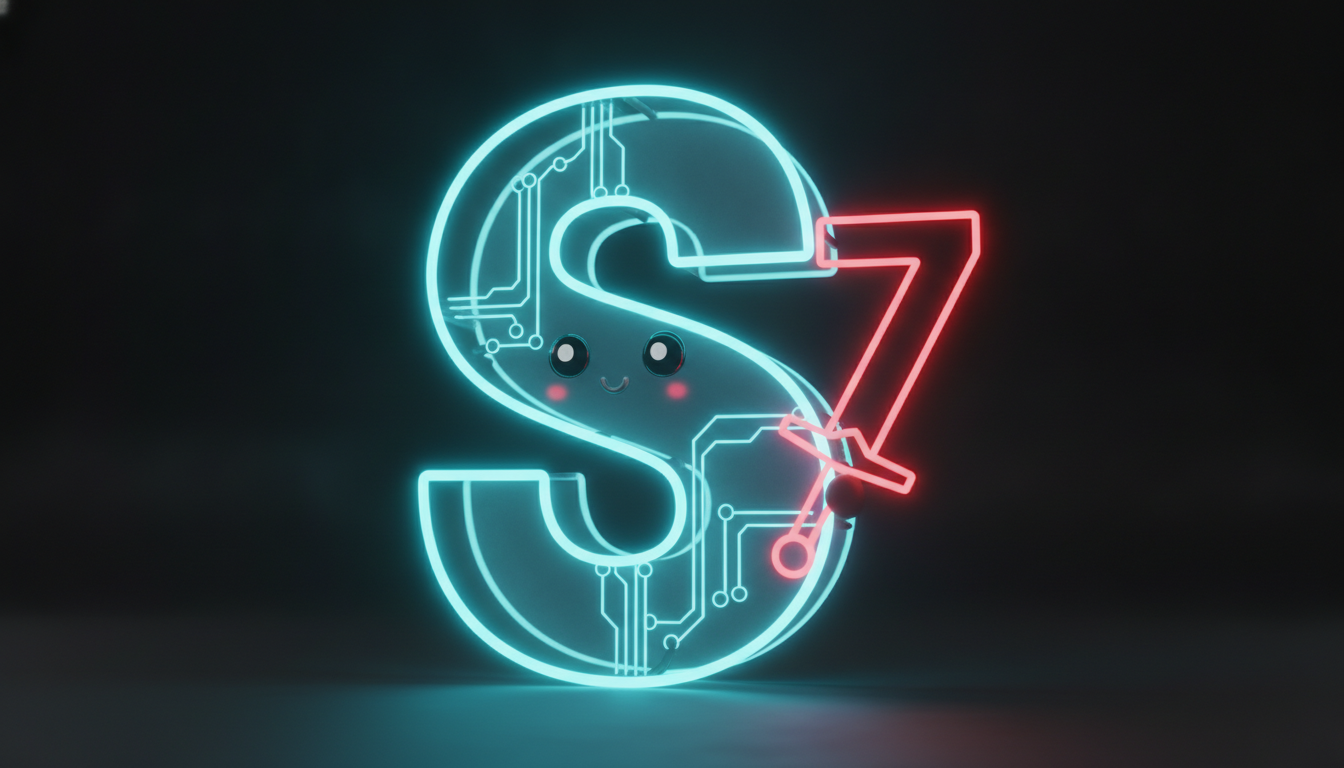
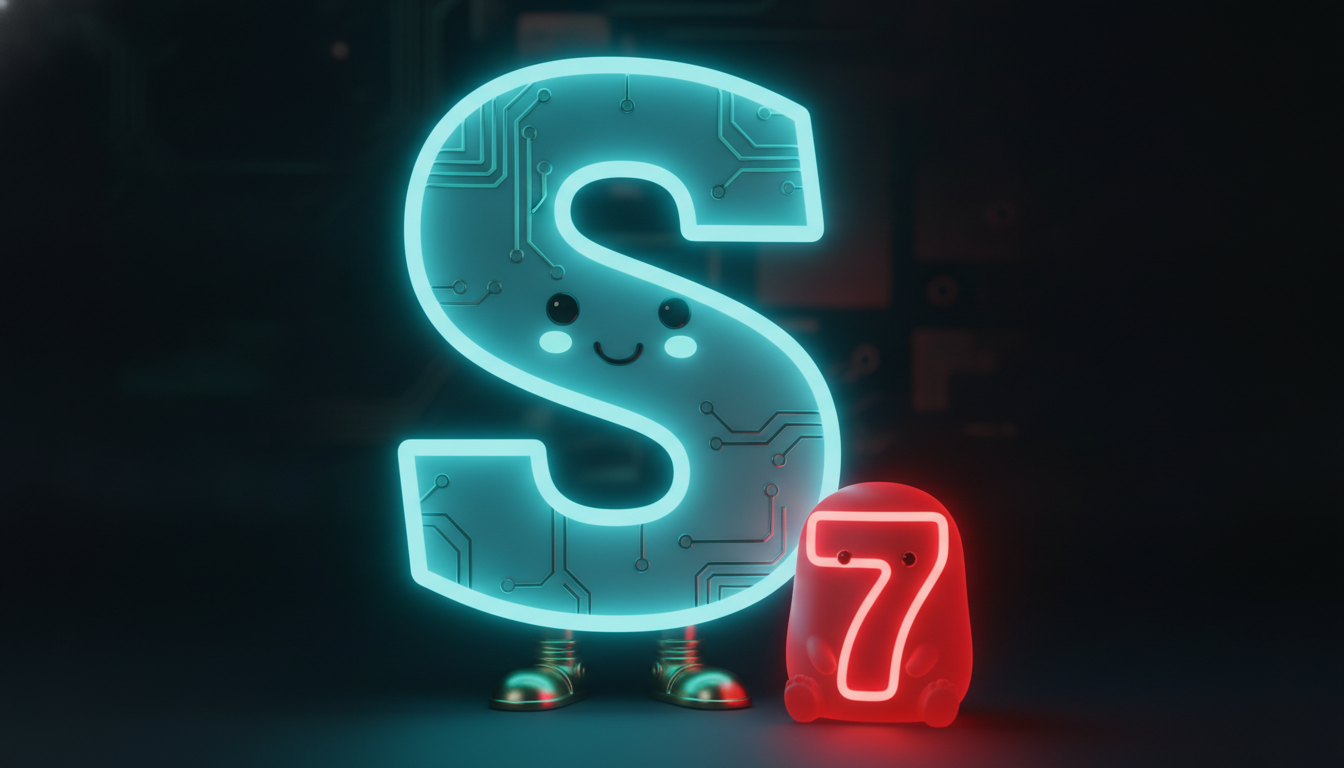
feat(site): 7 is S's pet, not a sword

Changed region(s): [[0.1875, 0.0, 0.75, 1.0], [0.0, 0.0, 0.0312, 0.0625]]

diff --git a/index.html b/index.html
@@ -58,7 +58,7 @@
     <p class="film-kicker">Signet7</p>
     <h1 id="hero-title">Check the seal before you act.</h1>
     <p class="film-sub">The last look before you send money or change an account.</p>
-    <img class="film-product" src="assets/mascot-s7-fill.png" width="1440" height="810" alt="S, the Signet7 mascot, wielding a red 7 as a sword">
+    <img class="film-product" src="assets/mascot-s7-fill.png?v=pet" width="1440" height="810" alt="S, the Signet7 mascot, with a small red 7 pet">
     <div class="film-cta">
       <a class="button button-primary" href="https://qual.signet7.io/email/verify">Open the live check</a>
       <a class="button button-secondary" href="check">How a recipient checks</a>
@@ -68,8 +68,8 @@
   <section class="film-live" aria-labelledby="meet-s">
     <div class="container">
       <p class="eyebrow">Meet S</p>
-      <h2 id="meet-s">He is the S. The 7 is his sword.</h2>
-      <p class="lede">Drag to turn. Click to swing.</p>
+      <h2 id="meet-s">He is the S. The 7 is his pet.</h2>
+      <p class="lede">Drag to turn. Click to say hi.</p>
       <div id="mascot3d" class="mascot3d" role="img" aria-label="Interactive 3D Signet7 mascot"></div>
     </div>
   </section>
@@ -117,7 +117,7 @@
     </div>
   </footer>
   <script src="assets/three.min.js" defer></script>
-  <script src="assets/mascot3d.js?v=2" defer></script>
+  <script src="assets/mascot3d.js?v=3" defer></script>
   <script src="assets/motion.js?v=20260819j" defer></script>
 </body>
 </html>

diff --git a/assets/mascot3d.js b/assets/mascot3d.js
@@ -17,7 +17,7 @@
   scene.add(card);
 
   const loader = new THREE.TextureLoader();
-  loader.load("assets/mascot-s7-fill.png", (tex) => {
+  loader.load("assets/mascot-s7-fill.png?v=pet", (tex) => {
     tex.colorSpace = THREE.SRGBColorSpace;
     const aspect = (tex.image && tex.image.width && tex.image.height)
       ? tex.image.width / tex.image.height
